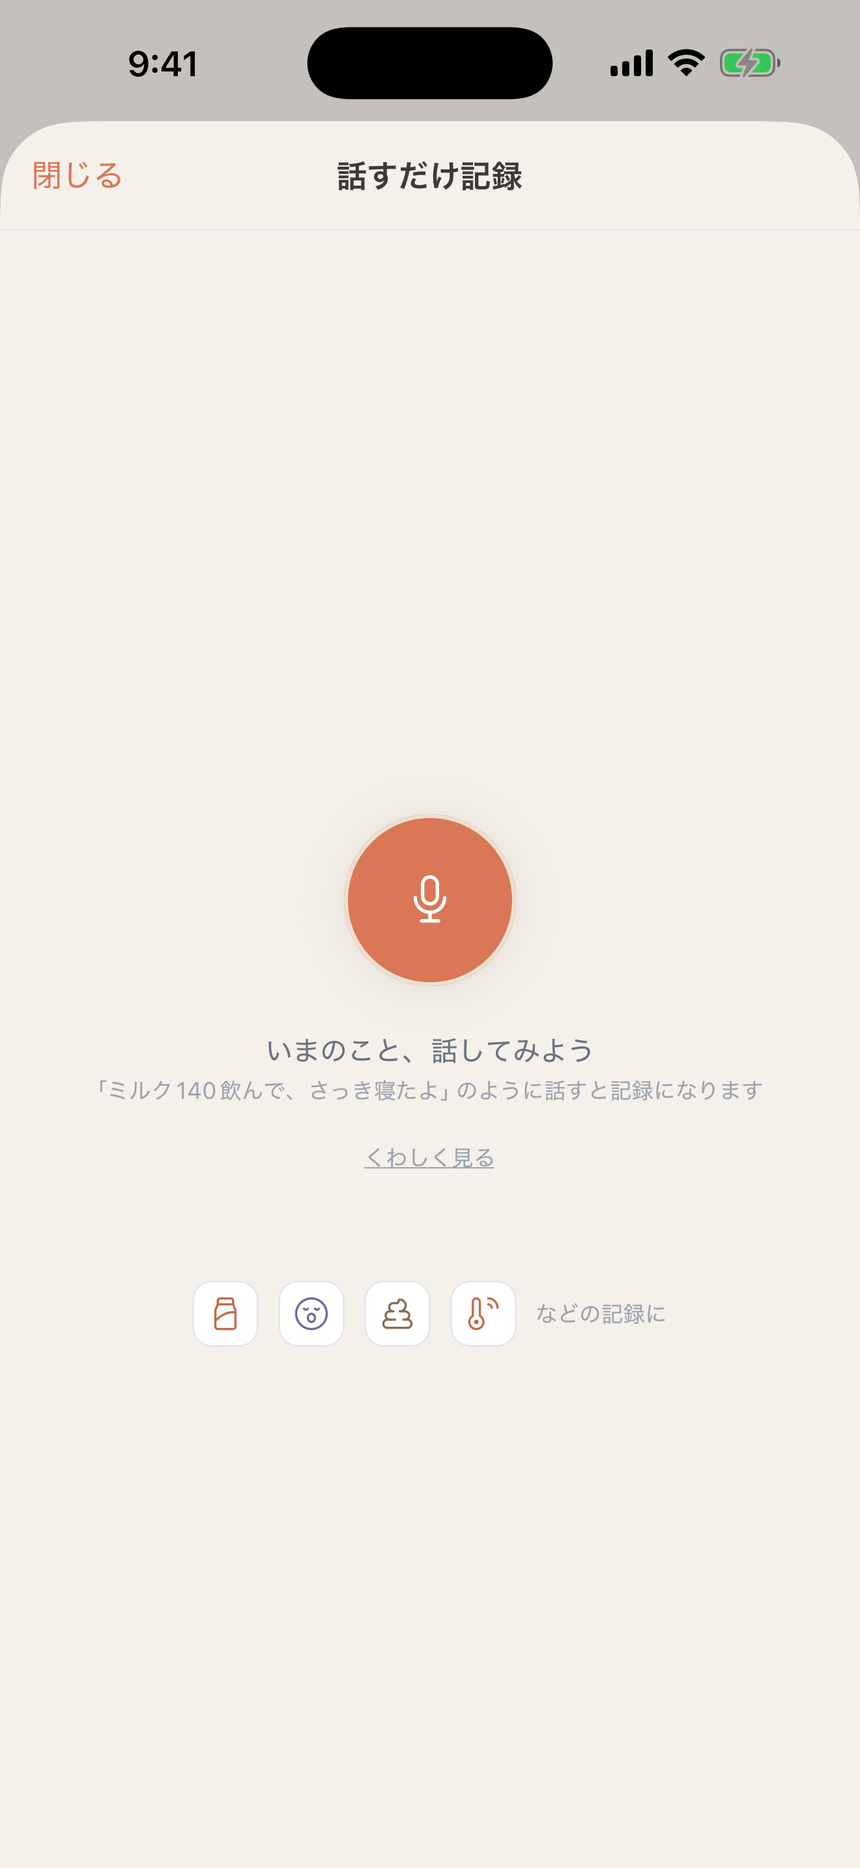
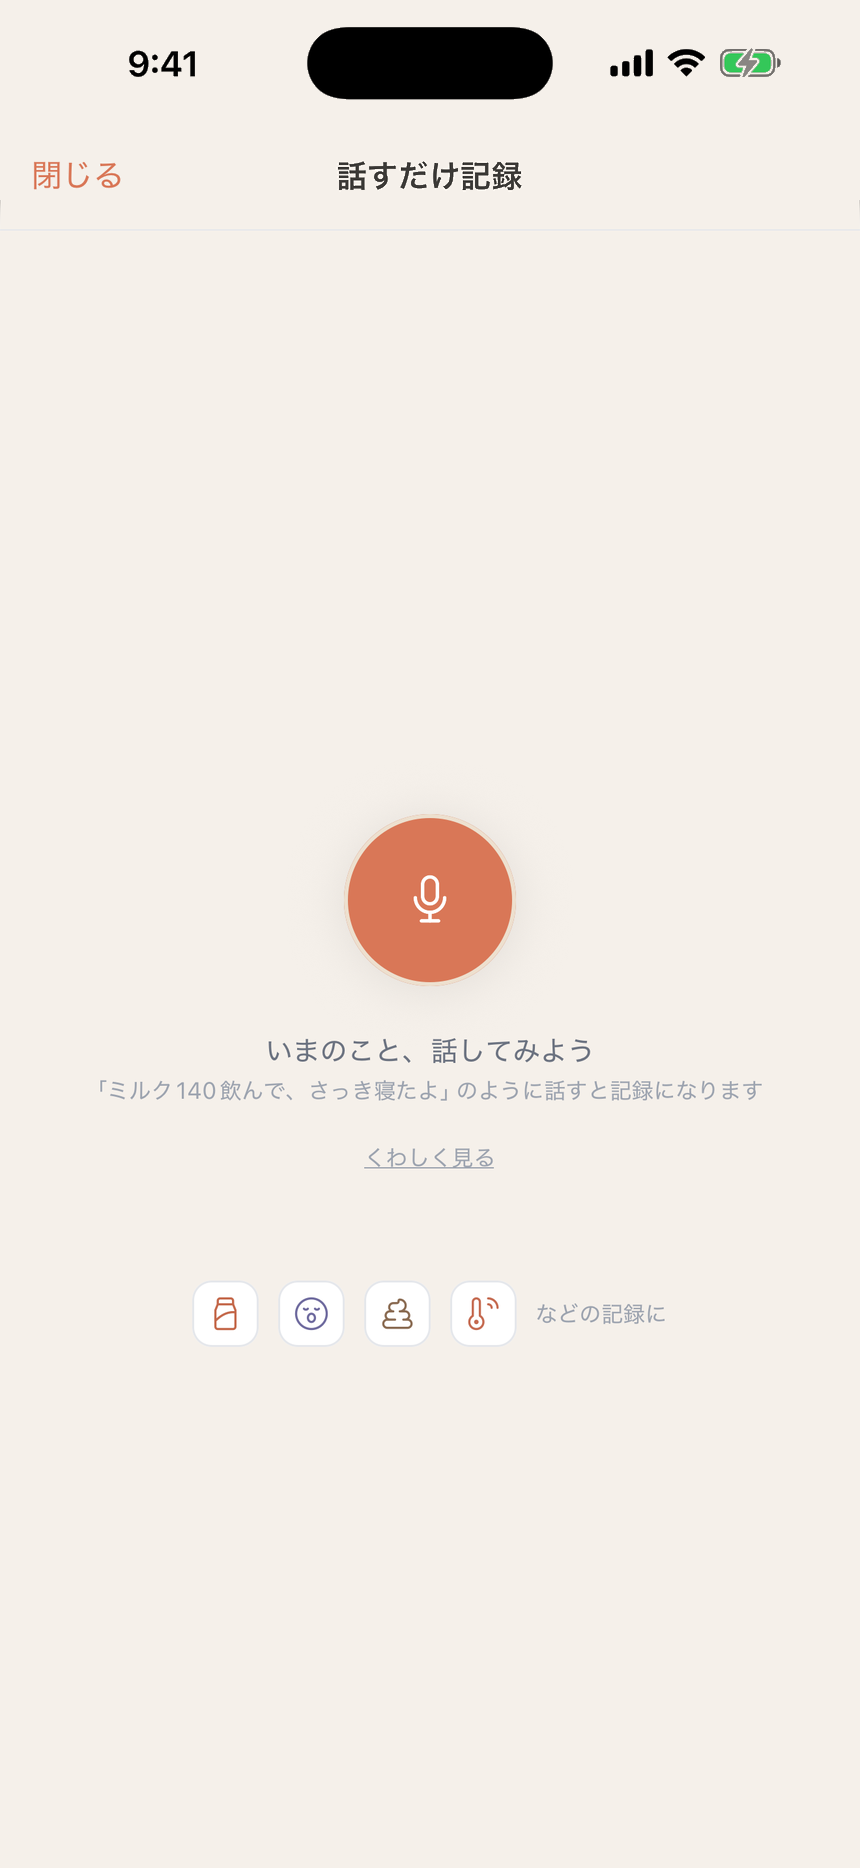
fix: 話すだけ記録セクションの表示崩れを解消
- 2枚並びのモックアップで装飾グローが重なり不定形の塊になっていたため非表示に（1枚置きの .single のみ残す）
- 画像に height:auto を追加。width/height 属性の高さが効いたままで、CSS幅を変えると縦横比が崩れていた（モバイルのヒーロー画像でも発生）
- スクショ背景がセクション背景に溶けていたためヘアライン枠を追加
- align-items:flex-start で1枚目の余分な縦伸びを解消、幅220px・間隔24pxに調整
- モバイルで縦積みだった2枚を横並び150pxに。「話す→確認」の対の関係を保つため
- 09_voice / 10_voice_confirm はモーダルシート表示のまま撮影されており、背面のグレーを他のスクショと同じアプリ背景色に置換

Changed region(s): [[0.0, 0.0, 1.0, 0.1242]]

diff --git a/src/app/page.tsx b/src/app/page.tsx
@@ -74,7 +74,8 @@ export default function HomePage() {
         .hero-note { margin-top: 16px; font-size: 0.9rem; color: var(--text-muted); }
         .hero-phone { flex: 0 0 320px; }
         .phone-mockup { position: relative; }
-        .phone-mockup img { width: 100%; border-radius: 40px; box-shadow: 0 20px 25px -5px rgba(0,0,0,0.12); }
+        /* height:auto がないと width/height 属性の高さが効いたままになり、幅を変えた瞬間に縦横比が崩れる */
+        .phone-mockup img { display: block; width: 100%; height: auto; border-radius: 40px; border: 1px solid rgba(60,58,55,0.08); box-shadow: 0 20px 25px -5px rgba(0,0,0,0.12); }
         .phone-mockup::before { content: ''; position: absolute; top: -20px; left: -20px; right: -20px; bottom: -20px; background: linear-gradient(135deg, var(--primary) 0%, #FFB088 100%); border-radius: 50px; z-index: -1; opacity: 0.18; }
 
         .feature-detail { padding: 100px 0; }
@@ -85,10 +86,13 @@ export default function HomePage() {
         .feature-text h2 { font-size: 2.1rem; font-weight: 700; line-height: 1.45; margin-bottom: 20px; }
         .feature-text p { color: var(--text-secondary); font-size: 1.05rem; line-height: 1.85; max-width: 460px; }
         .feature-text .feature-meta { margin-top: 24px; font-size: 0.9rem; color: var(--text-muted); }
-        .feature-visual { flex: 0 0 auto; display: flex; gap: 20px; }
-        .feature-visual .phone-mockup { width: 200px; }
+        .feature-visual { flex: 0 0 auto; display: flex; align-items: flex-start; gap: 24px; }
+        .feature-visual .phone-mockup { width: 220px; }
         .feature-visual .phone-mockup img { border-radius: 28px; box-shadow: 0 16px 20px -6px rgba(0,0,0,0.12); }
+        /* グローは1枚置きの .single だけ。2枚並びだと重なって塊に見えるため出さない */
+        .feature-visual .phone-mockup:not(.single)::before { display: none; }
         .feature-visual .phone-mockup.single { width: 260px; }
+        .feature-visual .phone-mockup.single::before { top: -16px; left: -16px; right: -16px; bottom: -16px; border-radius: 40px; }
         .feature-visual .phone-mockup:nth-child(2) { margin-top: 48px; }
 
         .strip { padding: 40px 0; text-align: center; }
@@ -114,7 +118,7 @@ export default function HomePage() {
 
         .screenshot-carousel { display: flex; gap: 24px; overflow-x: auto; padding: 8px 0 24px; scroll-snap-type: x mandatory; -webkit-overflow-scrolling: touch; scrollbar-width: none; }
         .screenshot-item { flex: 0 0 220px; scroll-snap-align: center; }
-        .screenshot-item img { width: 100%; border-radius: 28px; box-shadow: 0 16px 20px -6px rgba(0,0,0,0.1); transition: transform 0.3s; }
+        .screenshot-item img { display: block; width: 100%; height: auto; border-radius: 28px; box-shadow: 0 16px 20px -6px rgba(0,0,0,0.1); transition: transform 0.3s; }
         .screenshot-item:hover img { transform: scale(1.02); }
         .screenshot-item p { text-align: center; margin-top: 14px; font-weight: 500; color: var(--text-secondary); font-size: 0.9rem; }
 
@@ -158,8 +162,9 @@ export default function HomePage() {
           .hero-desc { font-size: 1.05rem; }
           .section-header h2 { font-size: 1.7rem; }
           .feature-text h2 { font-size: 1.6rem; }
-          .feature-visual { flex-direction: column; align-items: center; }
-          .feature-visual .phone-mockup:nth-child(2) { margin-top: 0; }
+          /* 2枚は「話す→確認」の対なので縦に積まず、横並びのまま縮める */
+          .feature-visual { gap: 16px; }
+          .feature-visual .phone-mockup { width: 150px; }
           .compact-grid { grid-template-columns: 1fr; }
           .cta h2 { font-size: 1.7rem; }
           .support-card { padding: 40px 24px; }
